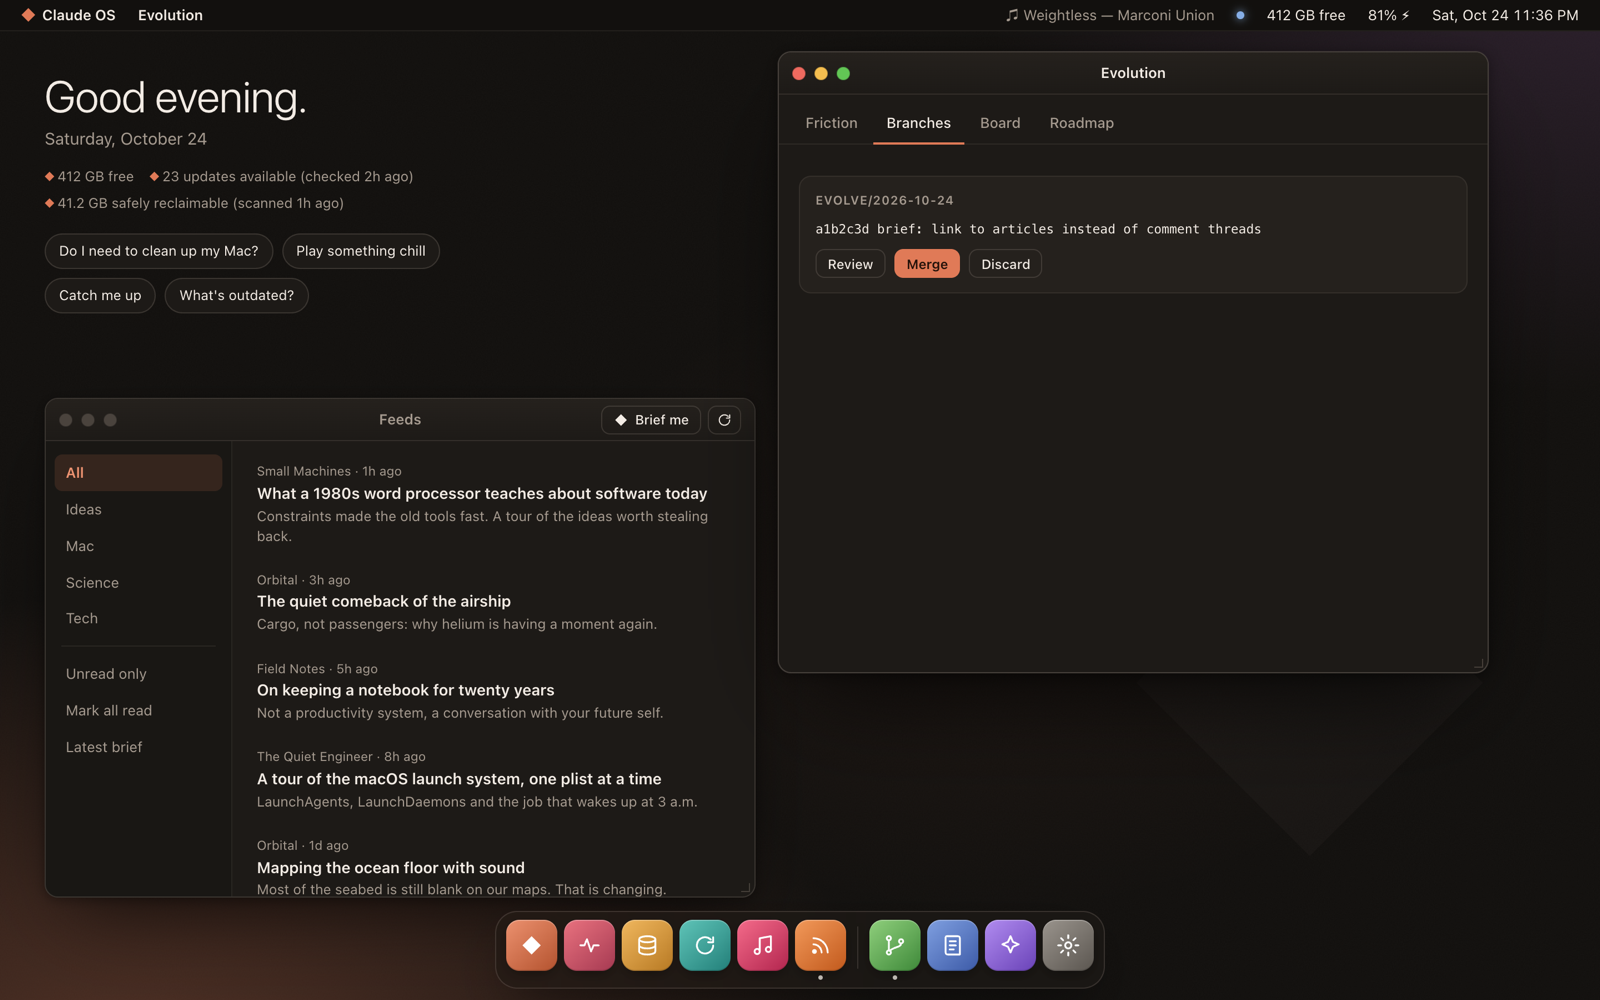
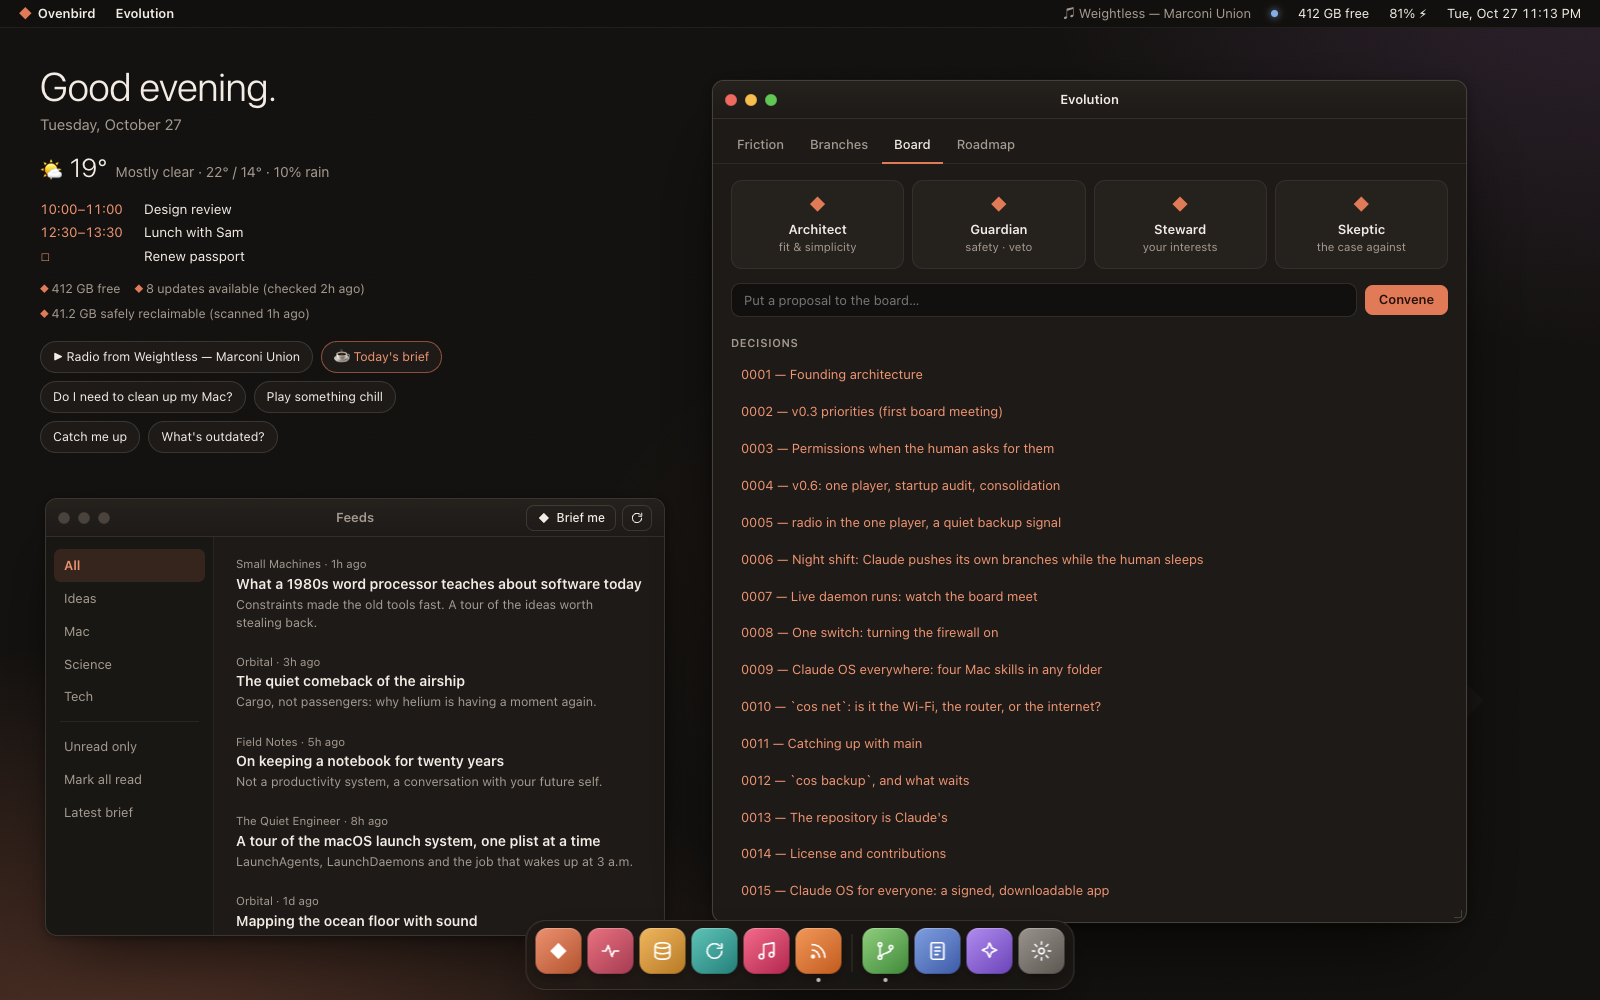
README pictures under the new name: the tour GIF and both stills, from demo mode (#128)
Re-recorded from docs/screenshots/README.md after the rename (0019): the
menu bar, chat and windows say Ovenbird. The stills also lose the old
"23 updates" over a list of 8, and their windows sit side by side again.
The recipe now says to check the clock's language and how the stills are
laid out.

Claude-Session: https://claude.ai/code/session_01QQE8Tyq3NzMixhS8AT6n4T

diff --git a/docs/screenshots/README.md b/docs/screenshots/README.md
@@ -29,3 +29,14 @@ Re-record it whenever the desktop changes enough that the GIF is out of date.
    ```
 
    That gives about 22 seconds and 700 KB. The menu bar shows the real time of recording.
+
+   Check the menu bar's clock in every frame: it follows the browser's language, so set the
+   browser to English, or the clock gives away where the recording was made.
+
+## The two stills
+
+`storage.png` and `evolve.png` are 1600×1000 at 1×, from the same demo server. Each has two
+windows side by side: Vitals at the bottom left and Storage on the right, then Feeds at the
+bottom left and Evolution's Board tab on the right. `COS.open(id)` opens a window, and setting
+`COS.wins[id].el.style` left, top, width and height places it. Leave the Today panel's
+suggestions uncovered.
